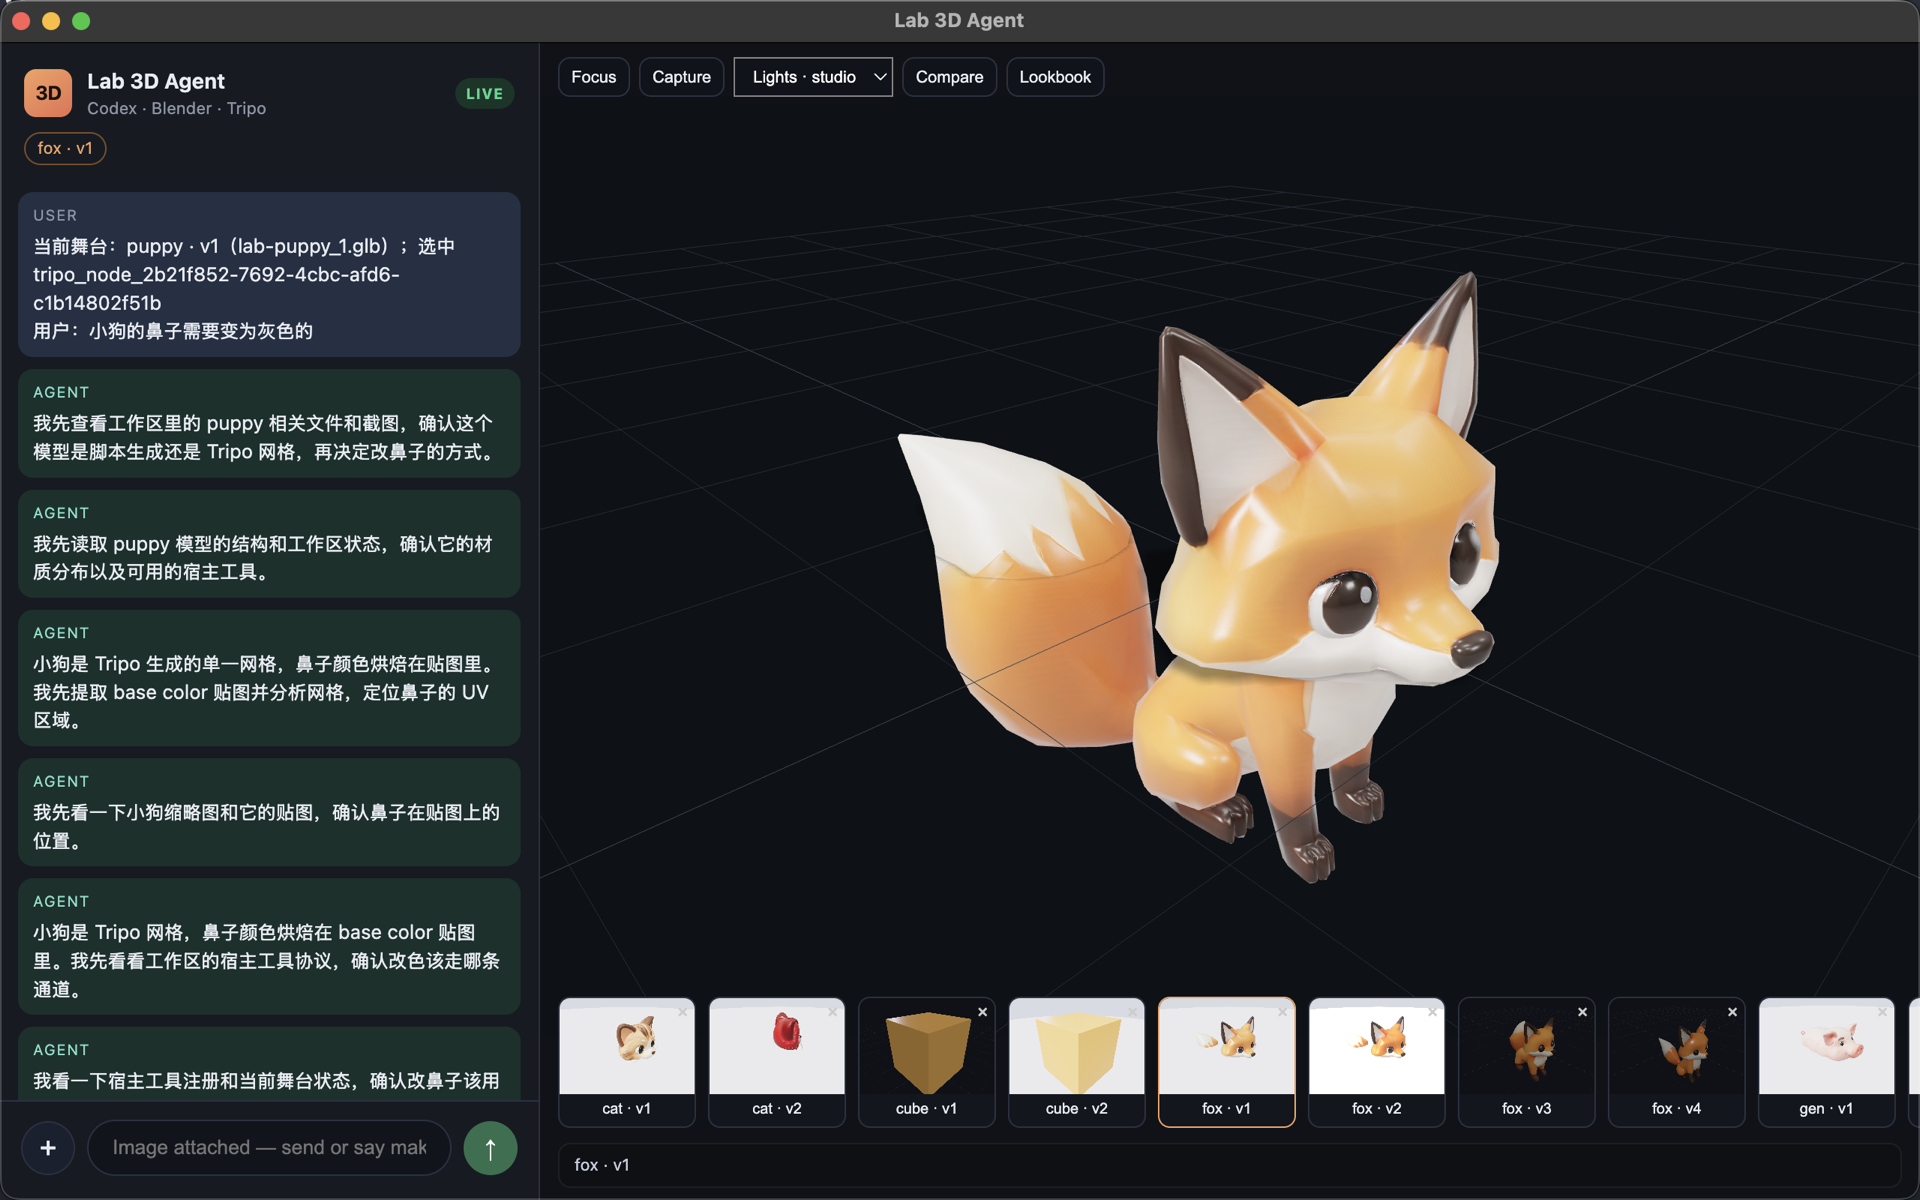
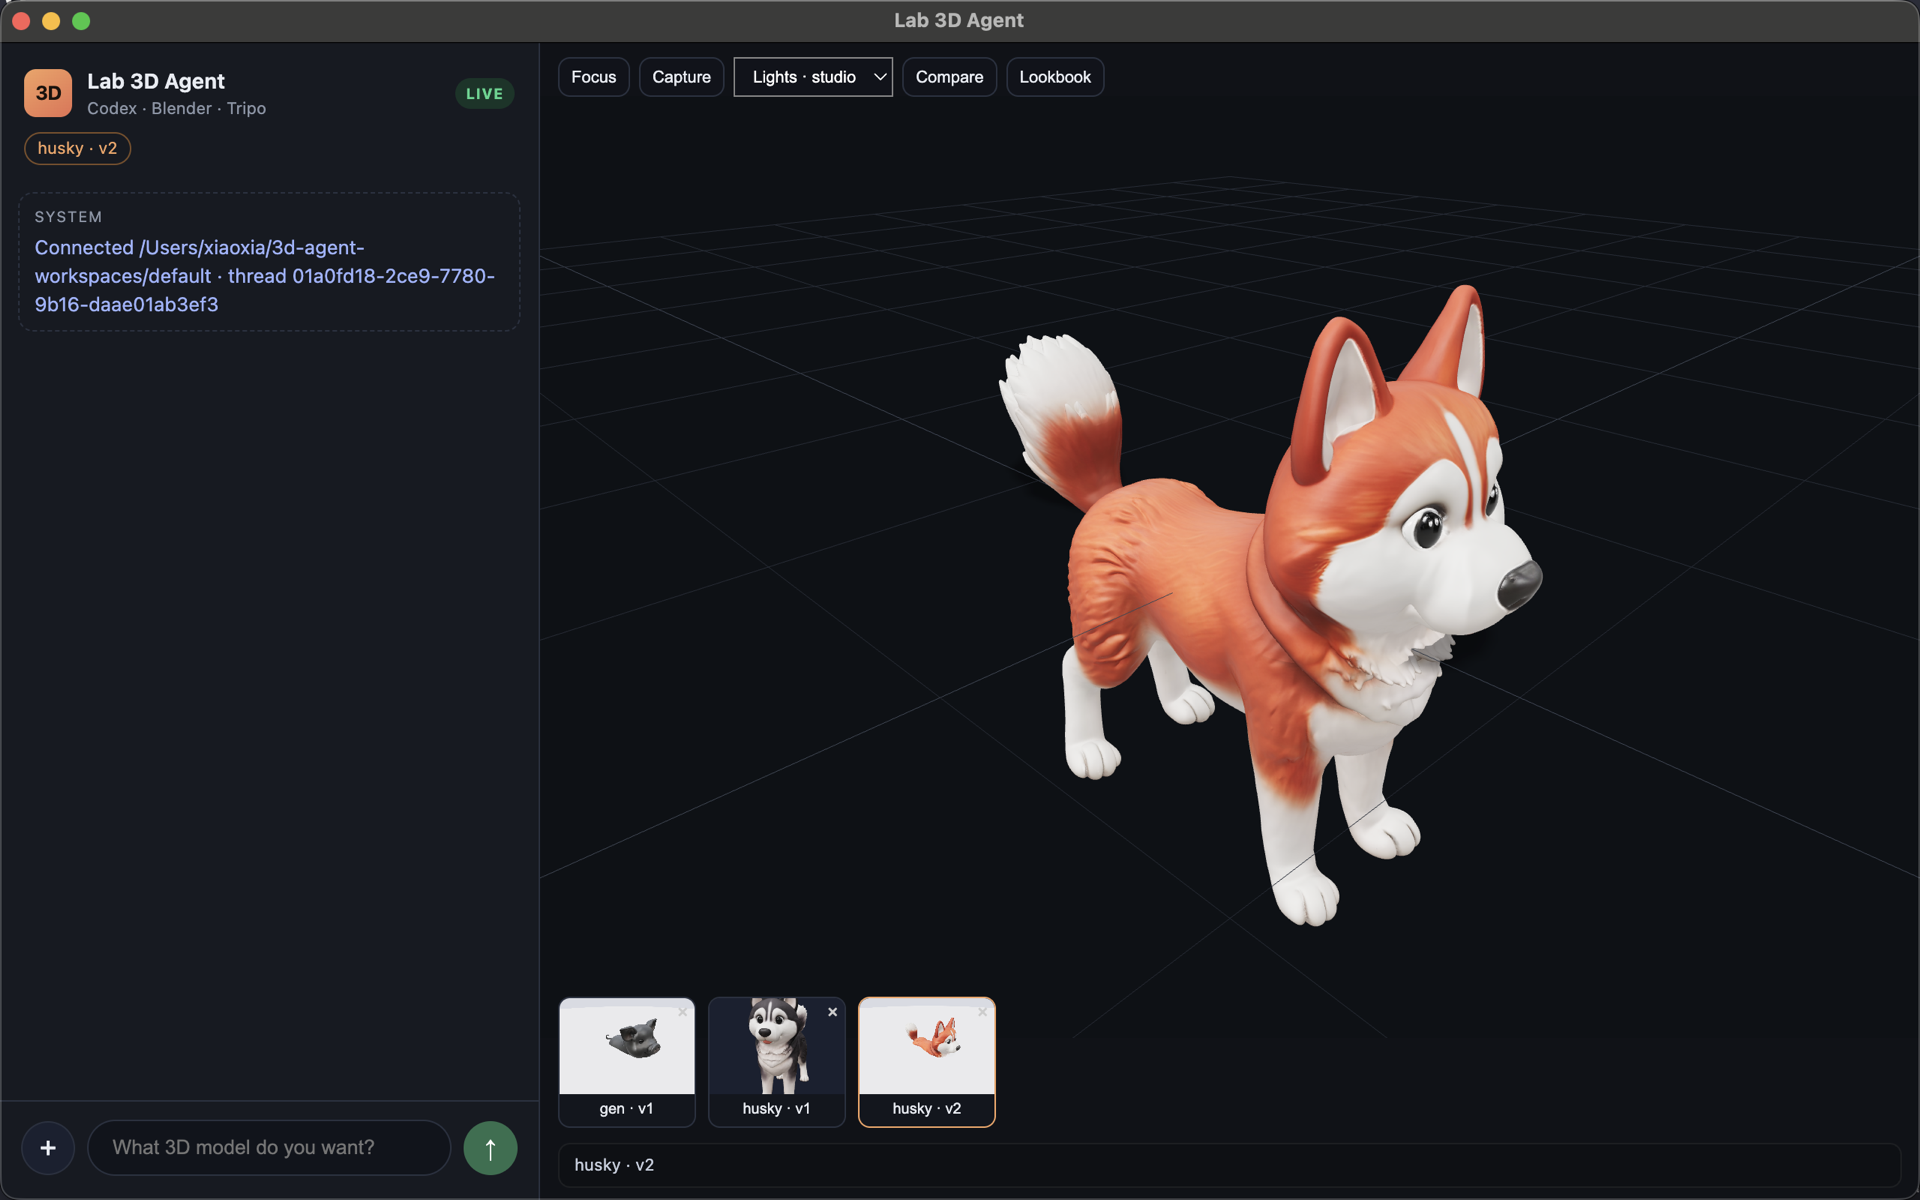
Replace README shots with a husky generate-then-recolor run.

diff --git a/README.md b/README.md
@@ -3,8 +3,16 @@
 Chat on the left. A live GLB stage on the right. You talk; the **host** builds the mesh (Tripo or headless Blender). The LLM only comments — it never launches Blender.
 
 <p align="center">
-  <img src="assets/screenshot.png" alt="Open 3D Agent: fox on the stage, version filmstrip below" width="920" />
+  <img src="assets/screenshot.png" alt="Open 3D Agent: husky on the live stage after a fur-color edit" width="920" />
 </p>
+
+<p align="center">
+  <img src="assets/husky-v1.png" alt="husky v1 classic coat" width="280" />
+  &nbsp;
+  <img src="assets/husky-v2.png" alt="husky v2 golden-red coat" width="280" />
+</p>
+
+<p align="center"><sub>Same family: <code>generate a Siberian husky</code> → <code>change the fur to golden-red</code> → <code>husky · v2</code></sub></p>
 
 ## How it works
 
